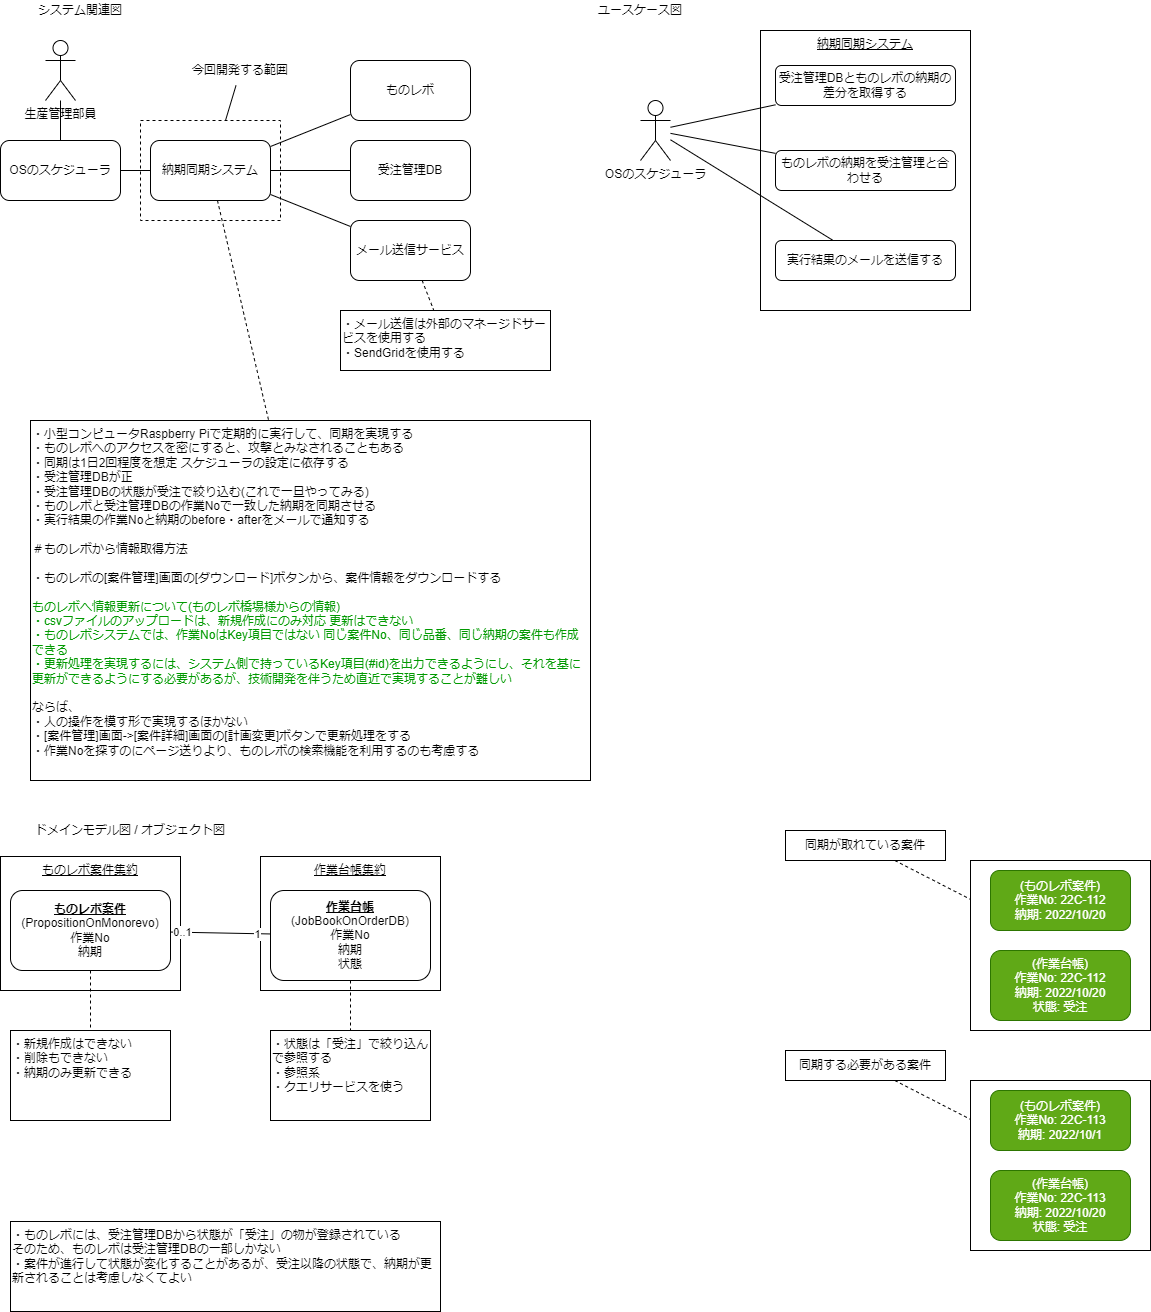
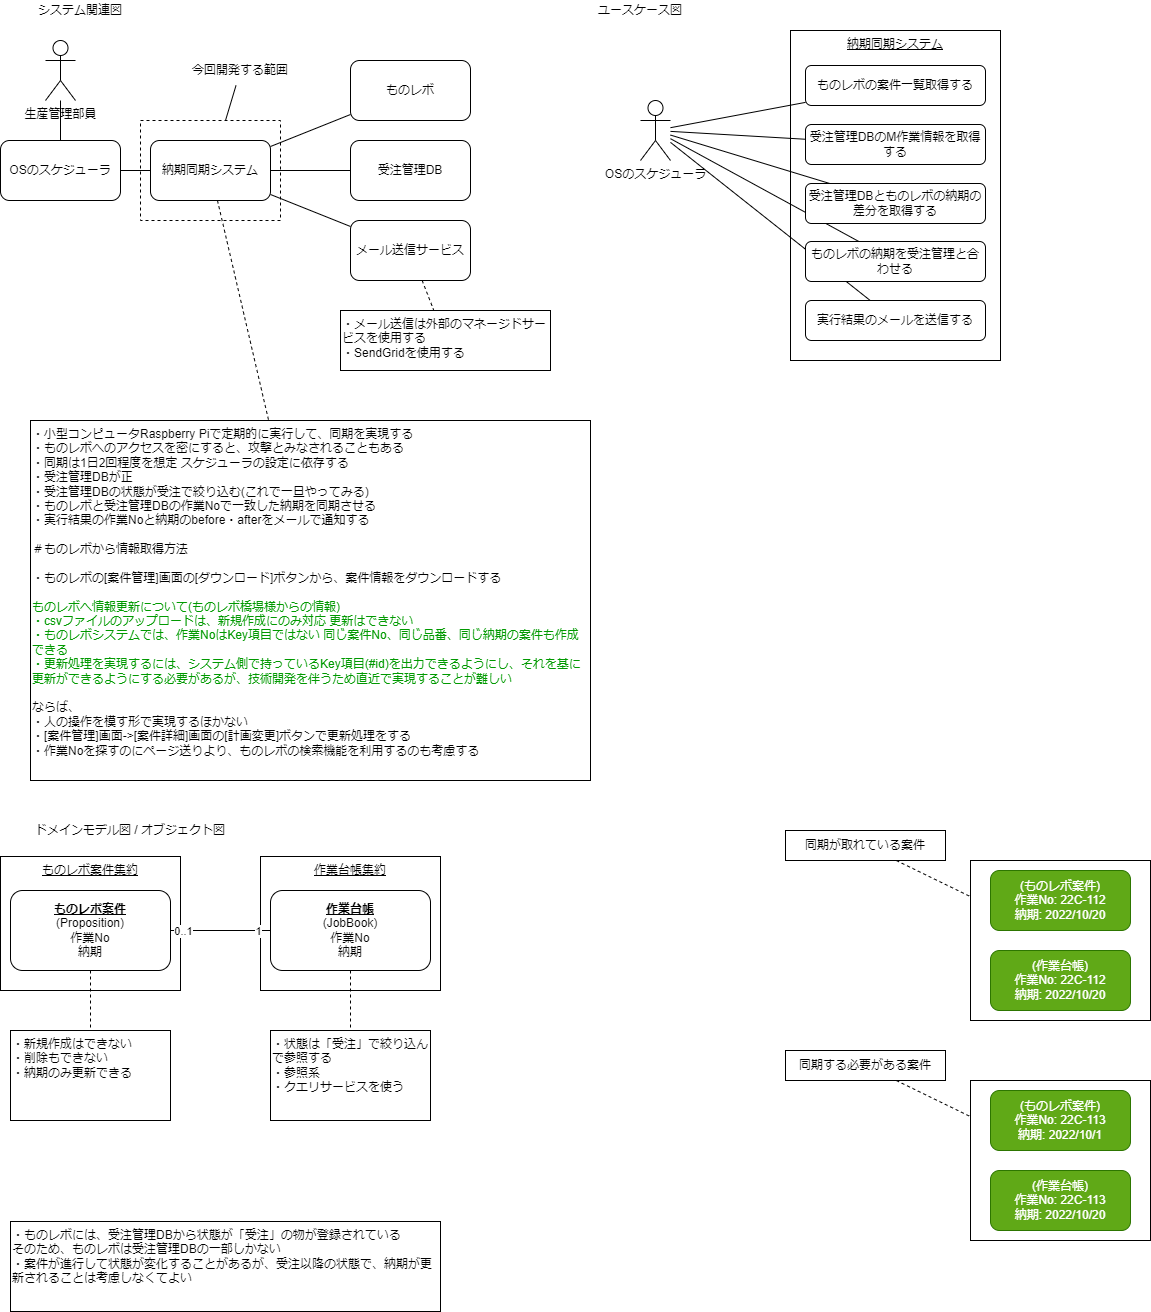
ものレボから案件一覧取得するUseCaseを追加

diff --git a/infrastructure/monorevo/proposition_table.go b/infrastructure/monorevo/proposition_table.go
@@ -22,7 +22,7 @@ type PropositionTable struct {
 	userId      string
 	userPass    string
 	downloadDir string
-	tempDir     string
+	workDir     string
 }
 
 func NewPropositionTable(
@@ -40,7 +40,7 @@ func NewPropositionTable(
 		userId:      userId,
 		userPass:    userPass,
 		downloadDir: filepath.Join(exePath, "download"),
-		tempDir:     filepath.Join(exePath, "temp"),
+		workDir:     filepath.Join(exePath, "work"),
 	}
 }
 
@@ -196,12 +196,12 @@ func (p *PropositionTable) initializeDownloadDir() error {
 
 func (p *PropositionTable) openCsvFile() ([]monorevo.Proposition, error) {
 	// テンポラリフォルダの作成
-	if err := p.initializeTempDir(); err != nil {
+	if err := p.initializeWorkDir(); err != nil {
 		p.sugar.Fatal("テンポラリフォルダの作成で失敗しました", err)
 	}
 
 	// ファイル移動
-	n, err := p.moveDownloadToTemp()
+	n, err := p.moveDownloadToWork()
 	if err != nil {
 		p.sugar.Fatal("ファイル移動で失敗しました", err)
 	}
@@ -214,19 +214,19 @@ func (p *PropositionTable) openCsvFile() ([]monorevo.Proposition, error) {
 	return csv, nil
 }
 
-func (p *PropositionTable) initializeTempDir() error {
-	if f, err := os.Stat(p.tempDir); os.IsNotExist(err) || !f.IsDir() {
-		p.sugar.Info("テンポラリフォルダは存在しません", p.tempDir)
+func (p *PropositionTable) initializeWorkDir() error {
+	if f, err := os.Stat(p.workDir); os.IsNotExist(err) || !f.IsDir() {
+		p.sugar.Info("テンポラリフォルダは存在しません", p.workDir)
 	} else {
-		p.sugar.Info("テンポラリフォルダの削除を実行", p.tempDir)
-		if err := os.RemoveAll(p.tempDir); err != nil {
+		p.sugar.Info("テンポラリフォルダの削除を実行", p.workDir)
+		if err := os.RemoveAll(p.workDir); err != nil {
 			p.sugar.Fatal("テンポラリフォルダの削除に失敗", err)
 		}
 	}
-	return os.Mkdir(p.tempDir, 0755)
+	return os.Mkdir(p.workDir, 0755)
 }
 
-func (p *PropositionTable) moveDownloadToTemp() (string, error) {
+func (p *PropositionTable) moveDownloadToWork() (string, error) {
 	files, err := ioutil.ReadDir(p.downloadDir)
 	if err != nil {
 		p.sugar.Fatal("ダウンロードフォルダのファイル一覧の取得失敗", err)
@@ -241,12 +241,12 @@ func (p *PropositionTable) moveDownloadToTemp() (string, error) {
 	return f.Name(),
 		os.Rename(
 			filepath.Join(p.downloadDir, f.Name()),
-			filepath.Join(p.tempDir, f.Name()),
+			filepath.Join(p.workDir, f.Name()),
 		)
 }
 
 func (p *PropositionTable) deserializeCsv(name string) ([]monorevo.Proposition, error) {
-	file, err := os.Open(filepath.Join(p.tempDir, name))
+	file, err := os.Open(filepath.Join(p.workDir, name))
 	if err != nil {
 		p.sugar.Fatal("ファイルが開けませんでした", err)
 	}

diff --git a/domain/monorevo/mock_monorevo/mock_monorevo.go b/domain/monorevo/mock_monorevo/mock_monorevo.go
@@ -1,0 +1,87 @@
+// Code generated by MockGen. DO NOT EDIT.
+// Source: .\fetchposter.go
+
+// Package mock_monorevo is a generated GoMock package.
+package mock_monorevo
+
+import (
+	monorevo "SynchronizeMonorevoDeliveryDates/domain/monorevo"
+	reflect "reflect"
+
+	gomock "github.com/golang/mock/gomock"
+)
+
+// MockFetcher is a mock of Fetcher interface.
+type MockFetcher struct {
+	ctrl     *gomock.Controller
+	recorder *MockFetcherMockRecorder
+}
+
+// MockFetcherMockRecorder is the mock recorder for MockFetcher.
+type MockFetcherMockRecorder struct {
+	mock *MockFetcher
+}
+
+// NewMockFetcher creates a new mock instance.
+func NewMockFetcher(ctrl *gomock.Controller) *MockFetcher {
+	mock := &MockFetcher{ctrl: ctrl}
+	mock.recorder = &MockFetcherMockRecorder{mock}
+	return mock
+}
+
+// EXPECT returns an object that allows the caller to indicate expected use.
+func (m *MockFetcher) EXPECT() *MockFetcherMockRecorder {
+	return m.recorder
+}
+
+// FetchAll mocks base method.
+func (m *MockFetcher) FetchAll() ([]monorevo.Proposition, error) {
+	m.ctrl.T.Helper()
+	ret := m.ctrl.Call(m, "FetchAll")
+	ret0, _ := ret[0].([]monorevo.Proposition)
+	ret1, _ := ret[1].(error)
+	return ret0, ret1
+}
+
+// FetchAll indicates an expected call of FetchAll.
+func (mr *MockFetcherMockRecorder) FetchAll() *gomock.Call {
+	mr.mock.ctrl.T.Helper()
+	return mr.mock.ctrl.RecordCallWithMethodType(mr.mock, "FetchAll", reflect.TypeOf((*MockFetcher)(nil).FetchAll))
+}
+
+// MockPoster is a mock of Poster interface.
+type MockPoster struct {
+	ctrl     *gomock.Controller
+	recorder *MockPosterMockRecorder
+}
+
+// MockPosterMockRecorder is the mock recorder for MockPoster.
+type MockPosterMockRecorder struct {
+	mock *MockPoster
+}
+
+// NewMockPoster creates a new mock instance.
+func NewMockPoster(ctrl *gomock.Controller) *MockPoster {
+	mock := &MockPoster{ctrl: ctrl}
+	mock.recorder = &MockPosterMockRecorder{mock}
+	return mock
+}
+
+// EXPECT returns an object that allows the caller to indicate expected use.
+func (m *MockPoster) EXPECT() *MockPosterMockRecorder {
+	return m.recorder
+}
+
+// PostRange mocks base method.
+func (m *MockPoster) PostRange(arg0 []monorevo.Proposition) error {
+	m.ctrl.T.Helper()
+	ret := m.ctrl.Call(m, "PostRange", arg0)
+	ret0, _ := ret[0].(error)
+	return ret0
+}
+
+// PostRange indicates an expected call of PostRange.
+func (mr *MockPosterMockRecorder) PostRange(arg0 interface{}) *gomock.Call {
+	mr.mock.ctrl.T.Helper()
+	return mr.mock.ctrl.RecordCallWithMethodType(mr.mock, "PostRange", reflect.TypeOf((*MockPoster)(nil).PostRange), arg0)
+}

diff --git a/usecase/monorevo/fetch_monorevo_test.go b/usecase/monorevo/fetch_monorevo_test.go
@@ -1,0 +1,68 @@
+package monorevo
+
+import (
+	"SynchronizeMonorevoDeliveryDates/domain/monorevo"
+	"SynchronizeMonorevoDeliveryDates/domain/monorevo/mock_monorevo"
+	"reflect"
+	"testing"
+
+	"github.com/golang/mock/gomock"
+	"go.uber.org/zap"
+)
+
+func TestFetchMonoRevoPropositionTable_Execute(t *testing.T) {
+	// logger生成
+	logger, _ := zap.NewDevelopment()
+
+	// FetchAll戻り値
+	moc_results := []monorevo.Proposition{}
+	moc_pro := monorevo.TestPropositionCreate()
+	moc_results = append(moc_results, *moc_pro)
+
+	// モックコントローラーの生成
+	ctrl := gomock.NewController(t)
+	defer ctrl.Finish()
+
+	// ものレボDIオブジェクト生成
+	mock_fetcher := mock_monorevo.NewMockFetcher(ctrl)
+	// EXPECTはctrl#Finishが呼び出される前に FetchAllを呼び出さなければエラーになる
+	mock_fetcher.EXPECT().FetchAll().Return(moc_results, nil)
+
+	// UseCase戻り値
+	result := []PropositionDto{}
+	for _, v := range moc_results {
+		result = append(result, PropositionDto{
+			v.WorkedNumber,
+			v.DeliveryDate,
+		})
+	}
+
+	tests := []struct {
+		name    string
+		m       *FetchMonoRevoPropositionTable
+		want    []PropositionDto
+		wantErr bool
+	}{
+		{
+			name: "正常系_UseCaseを実行するとFetcherが実行されること",
+			m: NewFetchMonoRevoPropositionTable(
+				logger.Sugar(),
+				mock_fetcher,
+			),
+			want:    result,
+			wantErr: false,
+		},
+	}
+	for _, tt := range tests {
+		t.Run(tt.name, func(t *testing.T) {
+			got, err := tt.m.Execute()
+			if (err != nil) != tt.wantErr {
+				t.Errorf("FetchMonoRevoPropositionTable.Execute() error = %v, wantErr %v", err, tt.wantErr)
+				return
+			}
+			if !reflect.DeepEqual(got, tt.want) {
+				t.Errorf("FetchMonoRevoPropositionTable.Execute() = %v, want %v", got, tt.want)
+			}
+		})
+	}
+}

diff --git a/usecase/monorevo/fetch_monorevo.go b/usecase/monorevo/fetch_monorevo.go
@@ -1,0 +1,52 @@
+package monorevo
+
+import (
+	"SynchronizeMonorevoDeliveryDates/domain/monorevo"
+	"time"
+
+	"go.uber.org/zap"
+)
+
+type PropositionDto struct {
+	WorkedNumber string
+	DeliveryDate time.Time
+}
+
+type Executer interface {
+	Execute() ([]PropositionDto, error)
+}
+
+type FetchMonoRevoPropositionTable struct {
+	sugar   *zap.SugaredLogger
+	fetcher monorevo.Fetcher
+}
+
+func NewFetchMonoRevoPropositionTable(
+	sugar *zap.SugaredLogger,
+	fetcher monorevo.Fetcher,
+) *FetchMonoRevoPropositionTable {
+	return &FetchMonoRevoPropositionTable{
+		sugar:   sugar,
+		fetcher: fetcher,
+	}
+}
+
+func (m *FetchMonoRevoPropositionTable) Execute() ([]PropositionDto, error) {
+	propositions, err := m.fetcher.FetchAll()
+	if err != nil {
+		m.sugar.Fatal("ものレボから案件一覧の取得に失敗しました", err)
+	}
+
+	// DTOに詰め替え
+	dif := []PropositionDto{}
+	for _, v := range propositions {
+		dif = append(
+			dif,
+			PropositionDto{
+				WorkedNumber: v.WorkedNumber,
+				DeliveryDate: v.DeliveryDate,
+			},
+		)
+	}
+	return dif, nil
+}

diff --git a/domain/monorevo/fetchposter.go b/domain/monorevo/fetchposter.go
@@ -5,8 +5,10 @@ import (
 )
 
 // ものレボから案件を操作する
-type FetchPoster interface {
+type Fetcher interface {
 	FetchAll() ([]Proposition, error)
+}
+type Poster interface {
 	PostRange([]Proposition) error
 }
 
@@ -20,4 +22,22 @@ func NewProposition(w string, d time.Time) *Proposition {
 		WorkedNumber: w,
 		DeliveryDate: d,
 	}
+}
+
+// テスト用Factoryメソッド
+// 参考: https://shiimanblog.com/engineering/functional-options-pattern/
+type Options struct {
+	WorkedNumber string
+	deliveryDate time.Time
+}
+
+type Option func(*Options)
+
+func TestPropositionCreate(options ...Option) *Proposition {
+	// デフォルト値設定
+	opts := &Options{
+		WorkedNumber: "99A-1234",
+		deliveryDate: time.Now(),
+	}
+	return NewProposition(opts.WorkedNumber, opts.deliveryDate)
 }
